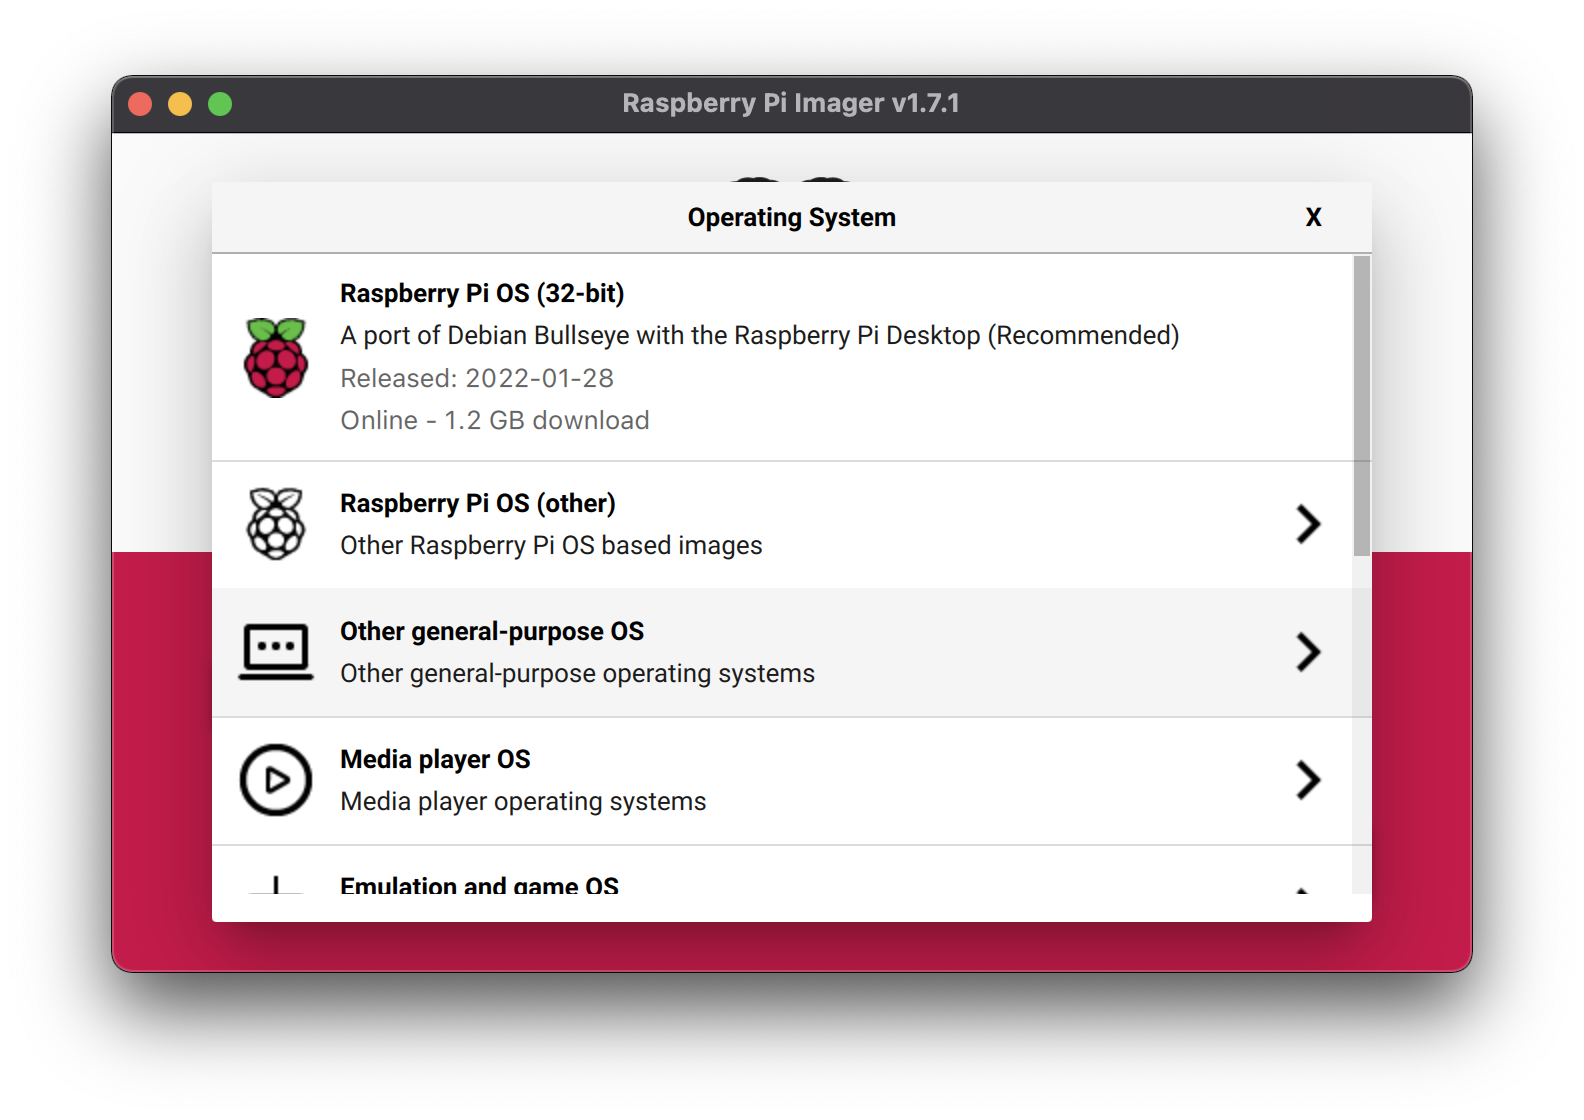
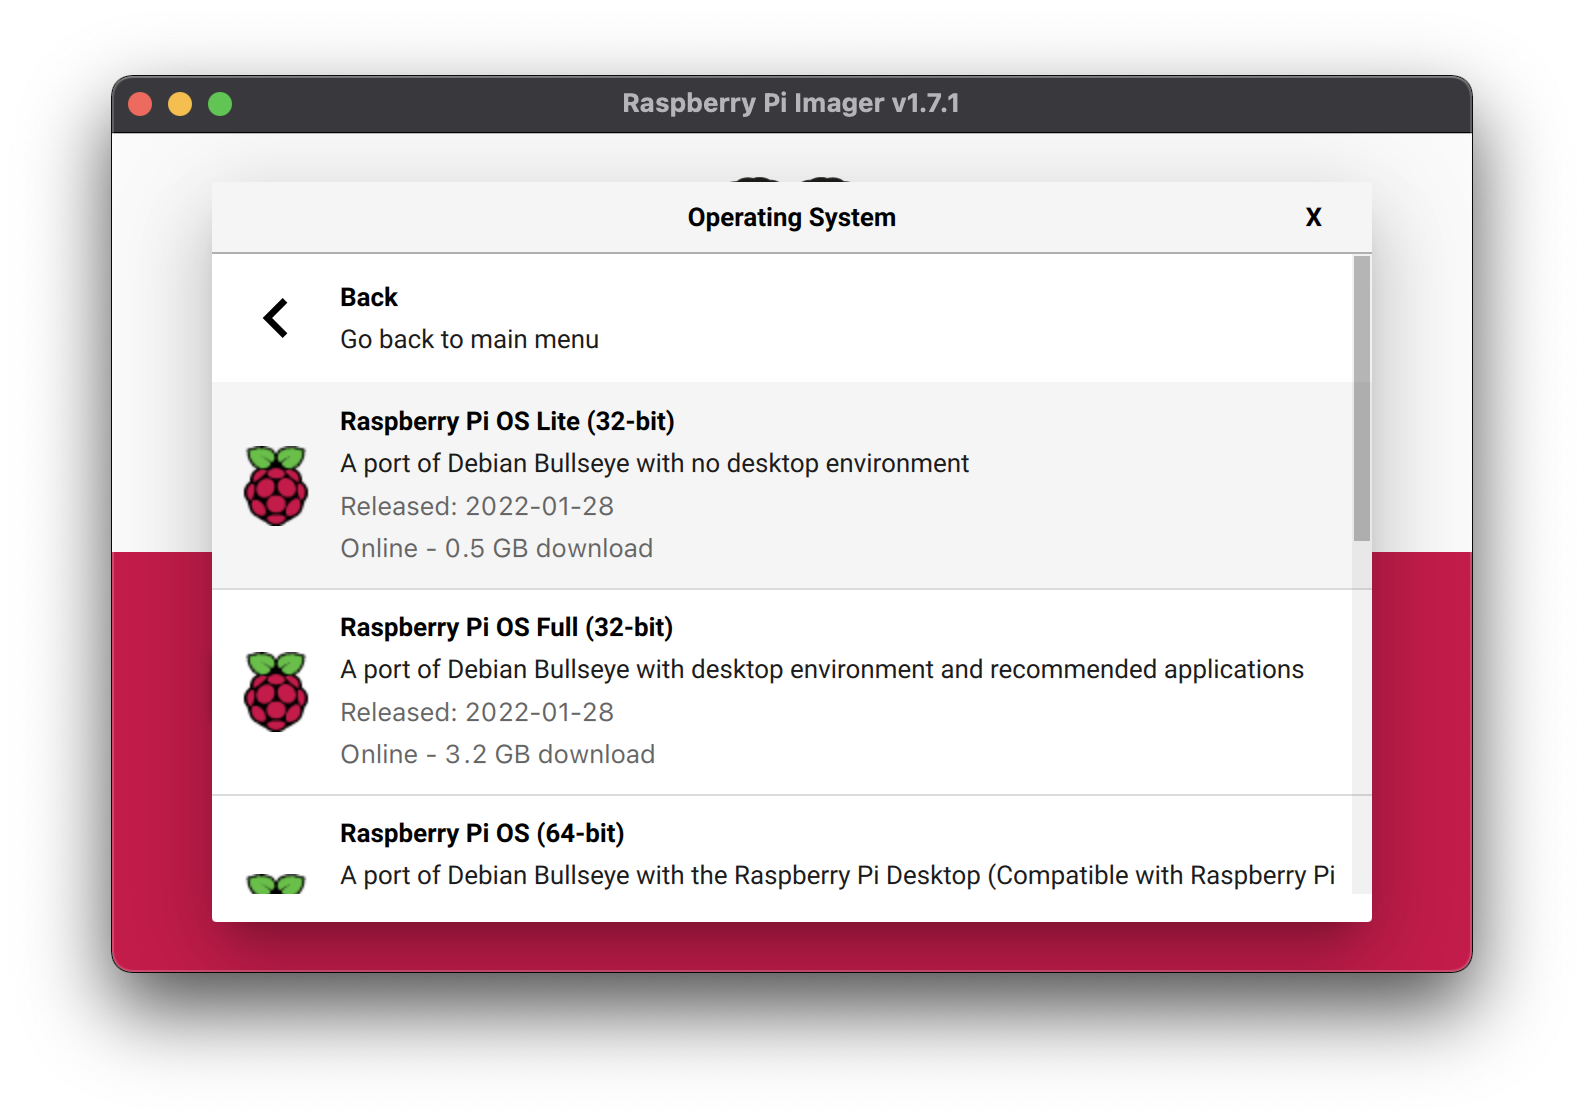
Update readme

diff --git a/README.md b/README.md
@@ -48,48 +48,71 @@ I love those [ELP 1080P USB cameras](https://de.aliexpress.com/item/400056225332
 
 ---
 
-** How to Install on a Raspberry Pi? **
+**How to Install on a Raspberry Pi?**
 
-Follow these steps to install `hkcam` and all the required libraries on a Raspberry Pi OS (32-bit).
+Follow these steps to install `hkcam` and all the required libraries on a Raspberry Pi OS Lite (32-bit).
 
 1. Download and run the Raspberry Pi Imager from https://www.raspberrypi.com/software/
-
 <img alt="Raspberry Pi Imager" src="_img/rpi-imager.png?raw=true" width="400" />
 
-1.1 Choose the Raspberry Pi OS (32-bit)
-
+1.1 Choose OS → Raspberry Pi OS (other) → Raspberry Pi OS Lite (32-bit)
 <img alt="Raspberry Pi Imager" src="_img/rpi-imager-os.png?raw=true" width="400" />
 
 1.2 Insert a sd card into your computer and choose it as the storage
-
 <img alt="Raspberry Pi Imager" src="_img/rpi-imager-storage.png?raw=true" width="400" />
 
-1.3 Click on the settings icon and **enable SSH** and **configure wifi** (enter your Wifi credentials)
-
+1.3 Click on the settings icon and **enable SSH**, **Set username and password** and **configure wifi**
 <img alt="Raspberry Pi Imager" src="_img/rpi-imager-settings.png?raw=true" width="400" />
 
 1.4 Write the operating system on the sd card by clicking on **Write**
-
 <img alt="Raspberry Pi Imager" src="_img/rpi-imager-write.png?raw=true" width="400" />
 
 2. Insert the sd card in your Raspberry Pi
 3. Connect your camera (in my case the ELP 1080P) and power supply
 4. Connect to your Raspberry Pi via SSH (the first boot may take a while, so be patient)
-`ssh pi@raspberrypi.local` (password is `raspberry`)
+`ssh pi@raspberrypi.local` (enter your previously configured password)
+
 5. Install ffmpeg
 `apt-get install ffmpeg`
+
 6. Install v4l2loopback
 `apt-get install v4l2loopback-dkms`
+
 6.1 Enable v4l2loopback module at boot by creating a file `/etc/modules-load.d/v4l2loopback.conf` with the content
 ```
 v4l2loopback
 ```
+
 6.2 Specify which loopback file should be created by the module (in our case /dev/video99) by creating the file `/etc/modprobe.d/v4l2loopback.conf` with the content
 ```
 options v4l2loopback video_nr=99
 ```
-7. Install `hkcam` by download the latest release from https://github.com/brutella/hkcam/releases
-`wget https://github.com/brutella/hkcam/releases/download/v0.1.0/hkcam-v0.1.0_linux_arm.tar.gz`
+
+6.3 Restart the Raspberry Pi and verify that the file `/dev/video99` exists
+
+7. Install `hkcam`
+7.1 Download the latest release from https://github.com/brutella/hkcam/releases
+```
+wget https://github.com/brutella/hkcam/releases/download/v0.1.0/hkcam-v0.1.0_linux_arm.tar.gz
+```
+
+7.2 Extract the archive with `tar -xzf hkcam-v0.1.0_linux_arm.tar.gz`
+
+7.3 Run `hkcam` by executing the following command
+```
+./hkcam -db=/var/lib/hkcam/data -multi_stream=true -verbose
+```
+
+8. Add the camera to HomeKit
+8.1 Launch the Apple Home-app and tap *+* → Add Accessory
+8.2 Tap *More Options...*
+<img alt="More options" src="_img/home-app-more-options.jpeg?raw=true" width="400" />
+
+8.3 Select *Camera* and confirm that the accessory is uncertified
+<img alt="Select Accessory" src="_img/home-app-select-camera.jpeg?raw=true" width="400" />
+
+8.4 Enter the pin `001-02-003` and Continue
+<img alt="Select Accessory" src="_img/home-app-pin.jpeg?raw=true" width="400" />
 
 <!-- #### Pre-configured Raspbian  Image
 
